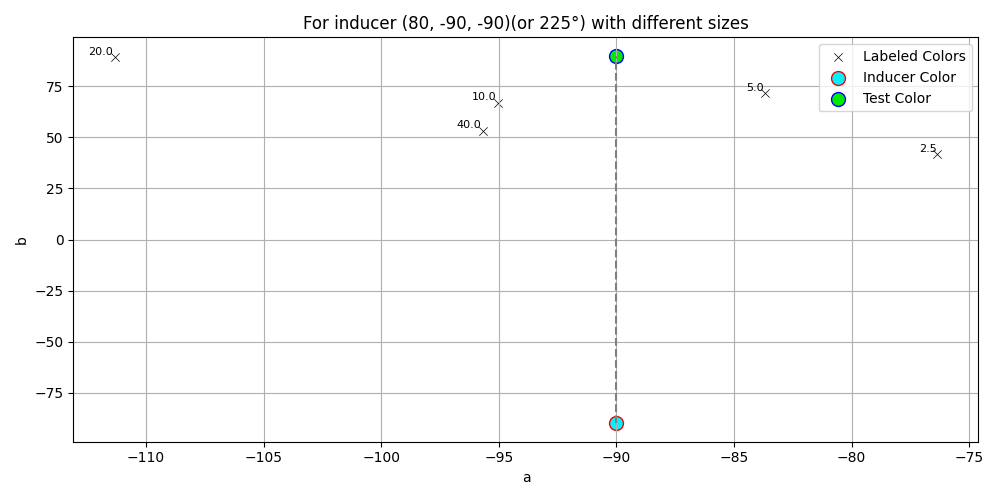
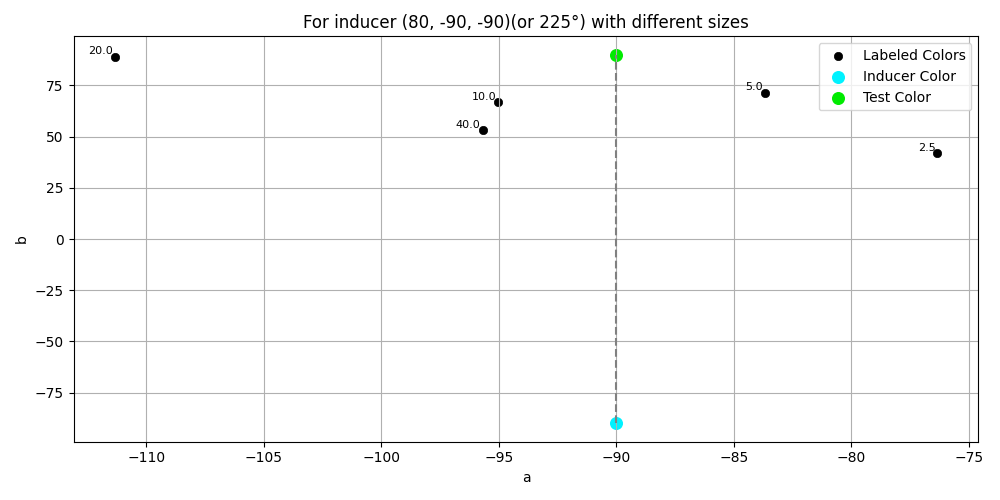
fix

diff --git a/statistics/size_unique.py b/statistics/size_unique.py
@@ -3,7 +3,6 @@ import numpy as np
 import pandas as pd
 import matplotlib.pyplot as plt
 from skimage.color import deltaE_cie76
-from matplotlib.colors import hsv_to_rgb
 from matplotlib.lines import Line2D
 
 # 从CSV文件中读取数据
@@ -29,10 +28,10 @@ os.makedirs('size_unique_plots', exist_ok=True)
 
 for size in unique_sizes:
     mask = (df['size'] == size)
-    plt.figure(figsize=(10, 5))
+    plt.figure(figsize=(7, 7), dpi=600)  # 设置图形为正方形，并提高解析度
 
-    # 绘制inducer颜色，用bar_color标记
-    plt.scatter(df['a_inducer'][mask], df['b_inducer'][mask], c=bar_colors[mask], label='Inducer Colors')
+    # 绘制inducer颜色，用bar_color标记，缩小点的大小
+    plt.scatter(df['a_inducer'][mask], df['b_inducer'][mask], c=bar_colors[mask], label='Inducer Colors', s=15)
 
     # 在inducer颜色旁边标记hue_inducer值
     for i, hue in enumerate(hue_inducer[mask]):
@@ -42,27 +41,49 @@ for size in unique_sizes:
     for i in range(len(df[mask])):
         offset = i * 0.1  # 添加偏移
         plt.scatter(df['a_label_mean'][mask].values[i] + offset, df['b_label_mean'][mask].values[i] + offset,
-                    c=[bar_colors[mask][i]], marker='x')
-        plt.arrow(test_color[1], test_color[2],
-                  df['a_label_mean'][mask].values[i] + offset - test_color[1],
-                  df['b_label_mean'][mask].values[i] + offset - test_color[2],
-                  color=bar_colors[mask][i], linestyle='--', head_width=1, head_length=2, length_includes_head=True)
+                    facecolors='none', edgecolors=[bar_colors[mask][i]], marker='o', s=15, linewidth=0.25)
+        plt.scatter(df['a_label_mean'][mask].values[i] + offset, df['b_label_mean'][mask].values[i] + offset,
+                    c=[bar_colors[mask][i]], marker='o', s=3)
 
-    # 绘制test_color
-    plt.scatter(test_color[1], test_color[2], color=test_rgb, marker='o', label='Test Color')
+        # 连接test_color和label color，改为虚线，调大间隔
+        plt.plot([test_color[1], df['a_label_mean'][mask].values[i] + offset],
+                 [test_color[2], df['b_label_mean'][mask].values[i] + offset],
+                 color=bar_colors[mask][i], linestyle=(0, (5, 5)), linewidth=0.5)
 
-    # 优化图例
+        # 将label color与对应的inducer color连接起来，改为虚线，调大间隔
+        plt.plot([df['a_inducer'][mask].values[i], df['a_label_mean'][mask].values[i] + offset],
+                 [df['b_inducer'][mask].values[i], df['b_label_mean'][mask].values[i] + offset],
+                 color=bar_colors[mask][i], linestyle=(0, (5, 5)), linewidth=0.5)
+
+    # 绘制test_color，并缩小点的大小
+    plt.scatter(test_color[1], test_color[2], color=test_rgb, marker='o', label='Test Color 135°', s=15)
+
+    # 设置横纵坐标比例相同
+    plt.gca().set_aspect('equal', adjustable='box')
+
+    # 创建图例元素
     legend_elements = [
-        Line2D([0], [0], marker='o', color='w', label='Test Color', markerfacecolor=test_rgb, markersize=10),
-        Line2D([0], [0], marker='x', color='w', label='Label Colors', markerfacecolor='k', markersize=10),
-        Line2D([0], [0], linestyle='--', color='k', label='Connection Lines')
+        Line2D([0], [0], marker='o', color='w', label='Test Color', markerfacecolor=test_rgb, markersize=5),
     ]
-    plt.legend(handles=legend_elements, loc='upper right')
+
+    # 根据hue_inducer添加Inducer Colors和Label Colors的图例
+    unique_hues = np.unique(hue_inducer[mask])
+    for hue in unique_hues:
+        hue_mask = (hue_inducer == hue)
+        legend_elements.append(Line2D([0], [0], marker='o', color='w', label=f'Inducer Color {int(hue)}°', markerfacecolor=bar_colors[hue_mask][0], markersize=5))
+        legend_elements.append(Line2D([0], [0], marker='o', color='w', label=f'Label Color {int(hue)}°', markerfacecolor='none', markeredgecolor=bar_colors[hue_mask][0], markersize=5))
+
+    # 添加连接线的图例
+    legend_elements.append(Line2D([0], [0], linestyle=(0, (5, 5)), color='k', label='Test to Label Color', linewidth=0.5))
+    legend_elements.append(Line2D([0], [0], linestyle=(0, (5, 5)), color='k', label='Label to Inducer Color', linewidth=0.5))
+
+    # 显示图例，并放置在图外
+    plt.legend(handles=legend_elements, loc='center left', bbox_to_anchor=(1, 0.5))
 
     plt.xlabel("a")
     plt.ylabel("b")
     plt.title(f"For size {size} with different inducers")
     plt.grid(True)
     plt.tight_layout()
-    plt.savefig(f'size_unique_plots/size_{size}.png')
+    plt.savefig(f'size_unique_plots/size_{size}.png', bbox_inches='tight')
     plt.close()

diff --git a/statistics/inducer_unique.py b/statistics/inducer_unique.py
@@ -32,14 +32,14 @@ for inducer in unique_inducers:
     plt.figure(figsize=(10, 5))
 
     # 绘制label颜色
-    plt.scatter(df['a_label_mean'][mask], df['b_label_mean'][mask], c='black', marker='x', label='Labeled Colors',
+    plt.scatter(df['a_label_mean'][mask], df['b_label_mean'][mask], c='black', marker='o', label='Labeled Colors',
                 linewidth=0.5)
 
     # 绘制inducer颜色和test_color
-    plt.scatter(inducer[1], inducer[2], c=bar_colors_masked, s=100, edgecolors='red', label='Inducer Color')
+    plt.scatter(inducer[1], inducer[2], c=bar_colors_masked, s=70, label='Inducer Color')
 
     # 绘制test_color,参数单个颜色用color，多个颜色用c
-    plt.scatter(test_color[1], test_color[2], color=test_rgb, marker='o', s=100, edgecolors='blue', label='Test Color')
+    plt.scatter(test_color[1], test_color[2], color=test_rgb, marker='o', s=70, label='Test Color')
 
     # 添加虚线（直线）将test color和inducer color连起来
     plt.plot([inducer[1], test_color[1]], [inducer[2], test_color[2]], linestyle='--', color='gray')
